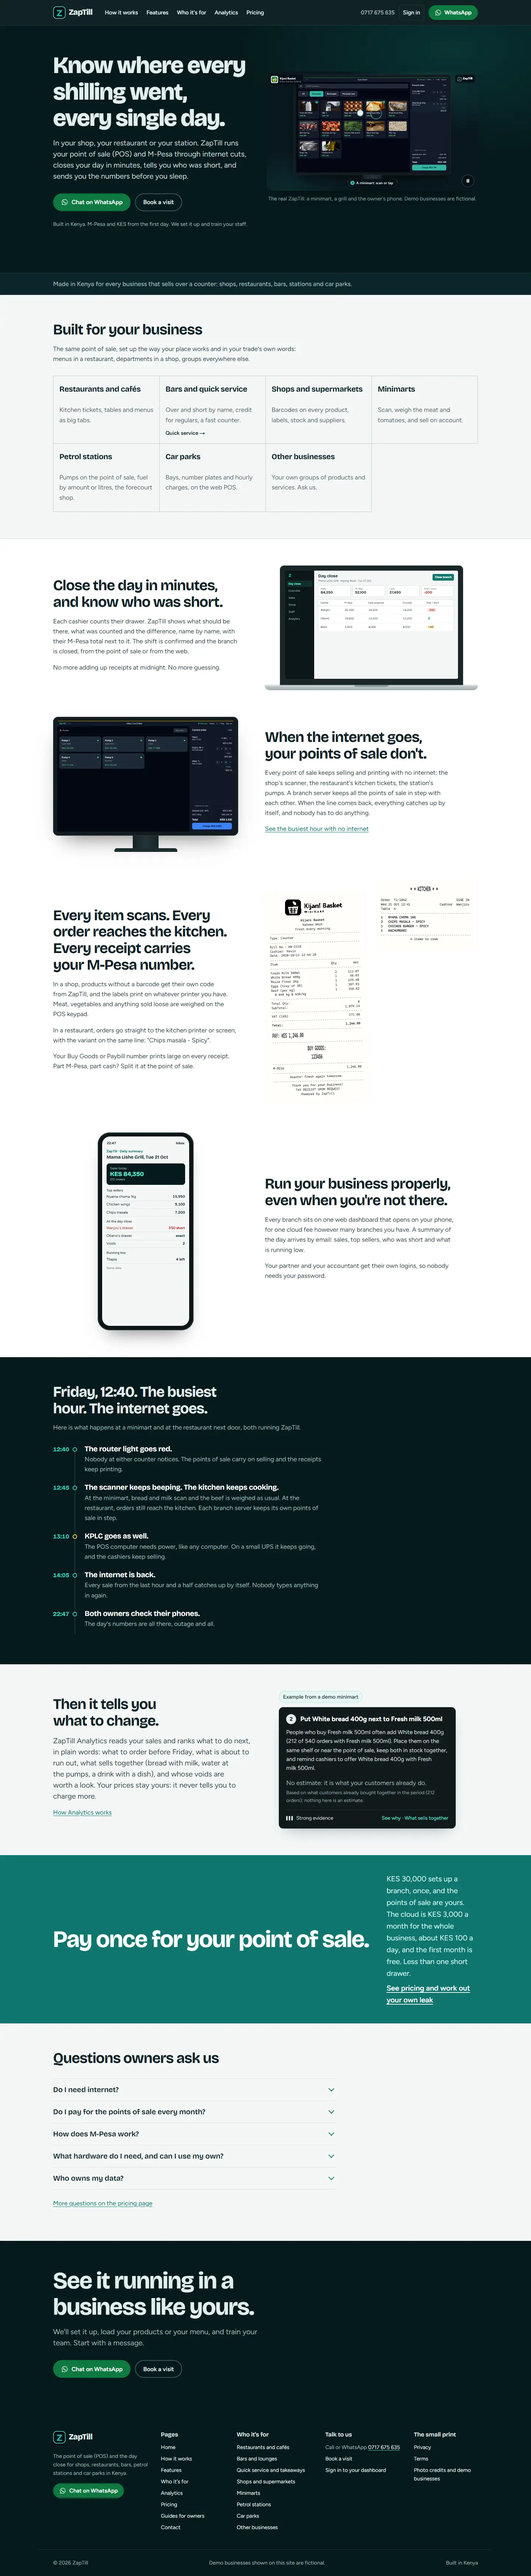
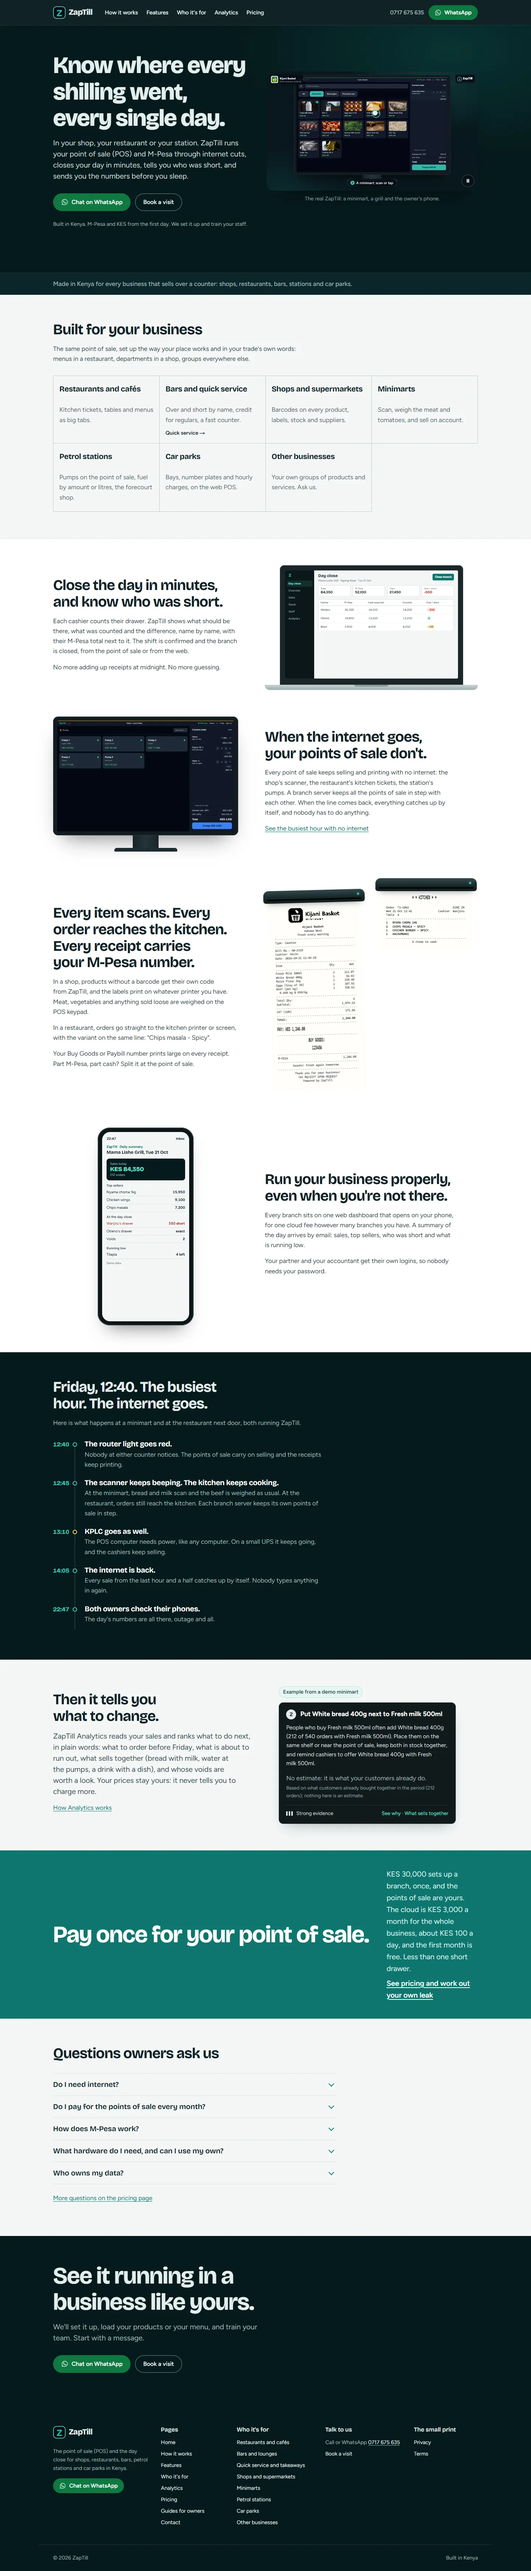
Website: demo note only on the unlinked credits page, sign-in link removed, receipts print out of a thermal printer on Home, Restaurants and Petrol stations

diff --git a/apps/website/src/lib/site.ts b/apps/website/src/lib/site.ts
@@ -8,7 +8,6 @@
 export const SITE = {
   name: 'ZapTill',
   url: 'https://zaptill.co.ke',
-  signIn: 'https://app.zaptill.co.ke',
   phoneDisplay: '0717 675 635',
   phoneIntl: '+254717675635',
   waNumber: '254717675635',

diff --git a/docs/website/WEBSITE-LOG.md b/docs/website/WEBSITE-LOG.md
@@ -14,8 +14,51 @@ Standing rules: the site is never deployed, published or committed by Claude; th
 a draft: KES 30,000 once per branch for the point of sale; the cloud KES 3,000 a month per business (all branches), month to
 month, first month free; Analytics about KES 10,000 a month, per business. Contact: 0717 675 635, no company email yet.
 Wording (owner, 2026-10-23): "point of sale" (or "POS"), never "till", except Safaricom's own M-Pesa "Till number";
-`npm run check` fails on any other "till" a visitor can read. Every demo business is FICTIONAL (src/assets/demo-brands)
-and the pages say so; product photos only from free-licence libraries, credited in src/data/photo-credits.json.
+`npm run check` fails on any other "till" a visitor can read. Every demo business is FICTIONAL (src/assets/demo-brands);
+since 2026-10-25 only `/credits/` says so (one short note), no other page carries a disclaimer. Product photos only from
+free-licence libraries, credited in src/data/photo-credits.json (on `/credits/`, reachable by URL, not linked).
+
+---
+
+## 2026-10-25: owner tweaks
+
+Local only: nothing committed, pushed or deployed. Only `apps/website/**` and `docs/website/**` touched.
+
+**Asked** (owner): remove "Demo businesses shown on this site are fictional." everywhere; remove the "Sign in to your
+dashboard" link; keep `/credits/` as a page but not as a link; make some receipts look like they come out of a printer.
+
+**Done**
+- **Disclaimer gone** from the footer, under the product videos (`ProductVideo` caption), the guide call-to-action
+  (`Guide.astro`), the two-branches guide's caption, the receipt and logo descriptions ("(a fictional demo …)") and the
+  label notes ("for Kijani Basket, a demo minimart"); "made-up grill/station/café" became "demo …". Plain "demo
+  restaurant" descriptions stay (they say what the picture is, not a disclaimer). `/credits/` alone carries the owner's
+  line: "The businesses shown in our demos are made up for illustration. If you believe something on this site concerns
+  you or your business, contact us on WhatsApp or 0717 675 635 and we will review it and remove it if needed." (WhatsApp
+  and the number are links). Its heading is now "The demo businesses"; the photo and font credits are unchanged.
+- **Sign in removed** everywhere: header button, phone menu item and the footer's "Sign in to your dashboard";
+  `SITE.signIn` deleted from `src/lib/site.ts` (nothing else used it).
+- **`/credits/` unlinked** (the footer's "Photo credits and demo businesses" link removed). Still built, indexable and in
+  the sitemap; `check-dist` has no orphan-page rule, so no change was needed there.
+- **Printing receipts** (`Receipt.astro`, new `print` and `printDelay` props): the slip sits under a small dark thermal
+  printer (CSS only: the front lip, the mouth, a teal LED that blinks while printing) and feeds out of the mouth in
+  line-sized steps (`steps(<lines>)`, about 55 ms a line) when a third of it scrolls into view (IntersectionObserver),
+  with a shade where the paper leaves the mouth and the existing torn bottom edge. Only a transform moves, inside a box
+  that already has the slip's full height, so nothing shifts (CLS 0, heights equal before and after printing). No sound.
+  No script, no IntersectionObserver or `prefers-reduced-motion: reduce`: the finished receipt shows (checked both).
+  The text stays the real rendered slip and its `role="img"` description is untouched. Used on 4 slips: Home (the shop
+  receipt and the kitchen ticket, staggered 450 ms), Restaurants (the Mvua Café receipt) and Petrol stations (the fuel
+  receipt beside the pump entry). The printing slip keeps 14 px inside its own box for the printer's lip, so a
+  full-width slip on a phone does not scroll the page sideways (it did by 8 px before that fix).
+
+**Checked**: `npm run build`, `npm test` (37 pass), `npm run check` green. Screenshots at 1440 and 390 px re-taken for
+home, for-restaurants, for-petrol-stations and credits (no horizontal overflow on any), plus
+`site-home-receipt-printing-start/-mid/-end.webp` (frames of the animation, paused at 18 %, 55 % and 100 %).
+
+**Lighthouse, mobile** (same method as night 3; local build, uncompressed): `/` before P98 A100 LCP 2.11 s CLS 0 (two
+runs: 98, 98) → after P99 / P97 A100 LCP 2.11 s CLS 0, 187 → 190 KB (the 0.6 KB script and the printer CSS);
+`/for/petrol-stations/` P96 → P98, LCP 2.18 → 2.11 s, CLS 0 → 0; `/for/restaurants/` after P96 A100 LCP 2.18 s CLS 0.
+Desktop `/` after P100 A100 LCP 0.49 s CLS 0. (Night 3's P100 on Home was a quieter machine; the before and after here
+were run back to back.)
 
 ---
 

diff --git a/docs/website/screenshots/README.md b/docs/website/screenshots/README.md
@@ -27,3 +27,7 @@ brands (logo, the receipt logo as printed, the mark).
 Night 3 (2026-10-23): every page re-taken at 1440 and 390 px after the quality pass, plus the new `site-guides-*`
 (the hub and the four draft guides) and the Pricing page's new comparison table (in `site-pricing-*`). Before/after
 Lighthouse numbers are in `../WEBSITE-LOG.md`.
+
+2026-10-25 (owner tweaks: no disclaimer, no Sign in, credits unlinked, printing receipts): `site-home-*`,
+`site-for-restaurants-*`, `site-for-petrol-stations-*` and `site-credits-*` re-taken; `site-home-receipt-printing-start`,
+`-mid` and `-end` are three frames of the receipts feeding out of the printer on Home (1440 px).
